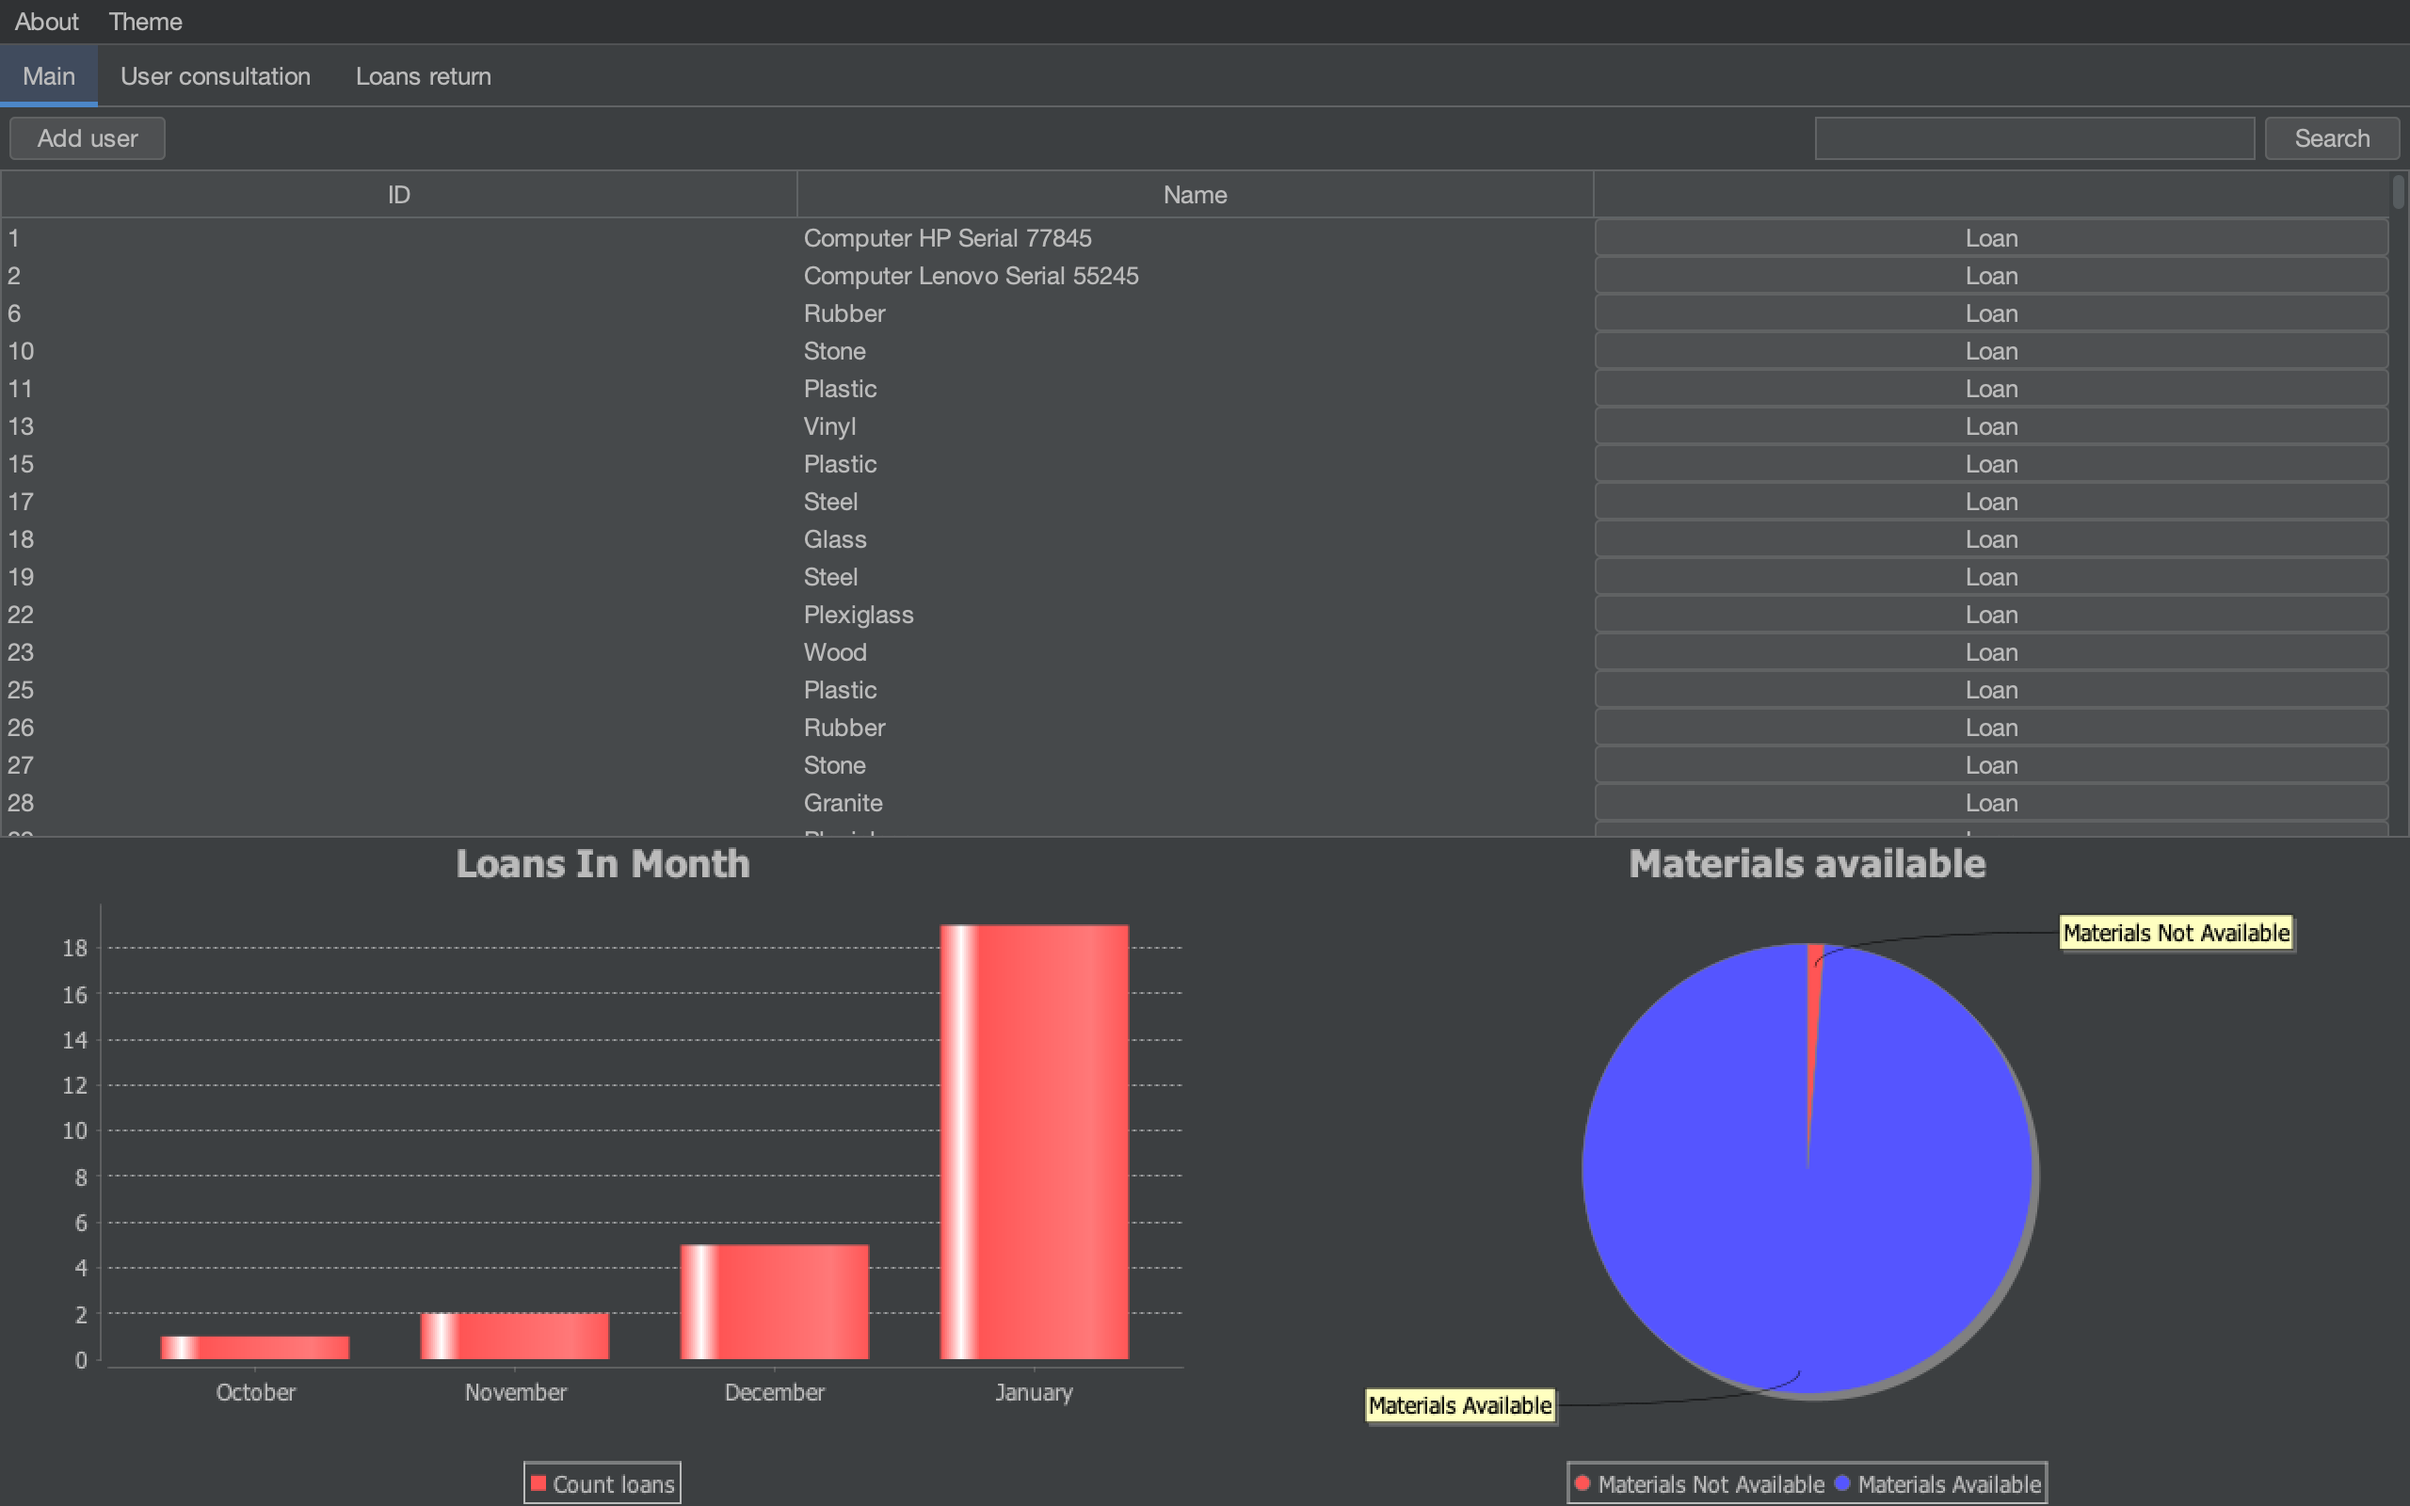
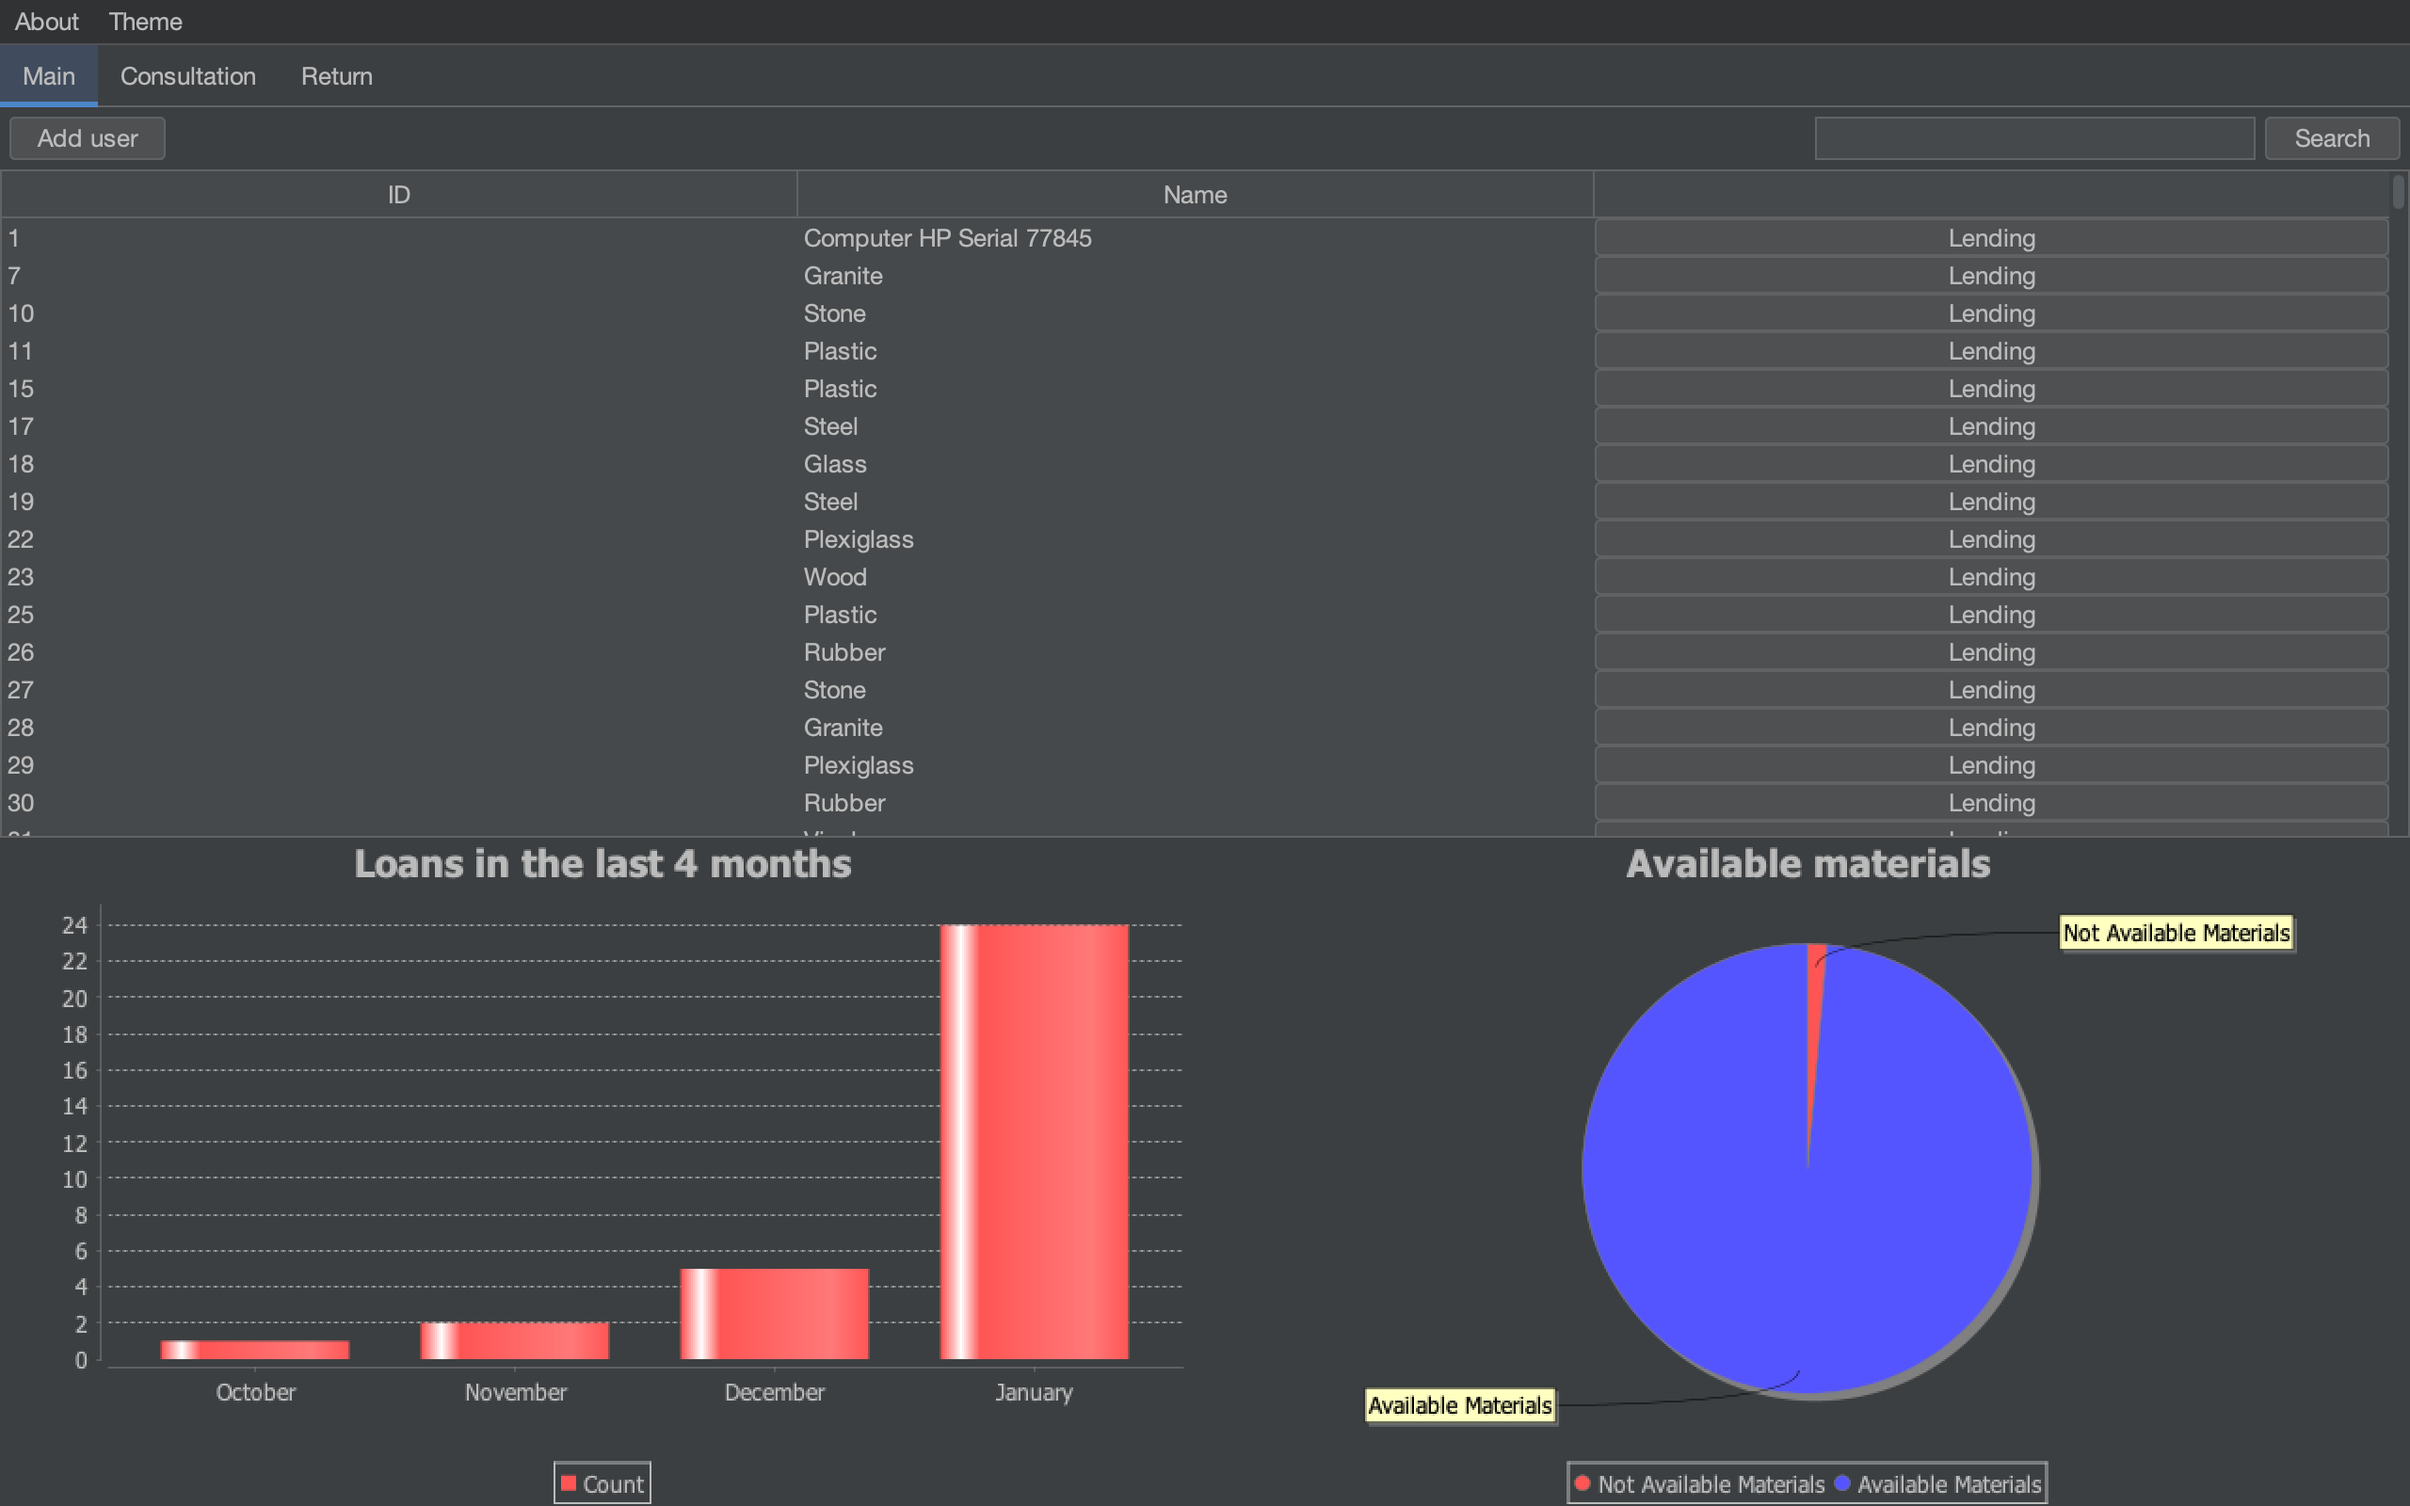
Add Wiki github

diff --git a/src/controllers/MainController.java b/src/controllers/MainController.java
@@ -54,9 +54,9 @@ public class MainController {
         try {
             ResultSet rs = AppSDK.LoansManager.LonsCount();
             while(rs.next()){
-                data.setValue(new Double(rs.getString(2)),"Count loans",rs.getString(1));
+                data.setValue(new Double(rs.getString(2)),"Count",rs.getString(1));
             }
-            var chart = ChartFactory.createBarChart("Loans In Month",
+            var chart = ChartFactory.createBarChart("Loans in the last 4 months",
                     " ", " " , data, PlotOrientation.VERTICAL,true,true,false);
             chart.setBackgroundPaint(UIManager.getColor ("Panel.background"));
             chart.getPlot().setBackgroundPaint( UIManager.getColor ("Panel.background"));
@@ -94,9 +94,9 @@ public class MainController {
         try {
             ResultSet rs = AppSDK.LoansManager.LonsAvailable();
             rs.next();
-            Pie.setValue("Materials Not Available", rs.getInt(2));
-            Pie.setValue("Materials Available", rs.getInt(1));
-            var chart = ChartFactory.createPieChart("Materials available", Pie,
+            Pie.setValue("Not Available Materials", rs.getInt(2));
+            Pie.setValue("Available Materials", rs.getInt(1));
+            var chart = ChartFactory.createPieChart("Available materials", Pie,
                     true, true , true);
             chart.setBackgroundPaint(UIManager.getColor ("Panel.background"));
             chart.getPlot().setBackgroundPaint( UIManager.getColor ("Panel.background"));

diff --git a/src/views/MainView.java b/src/views/MainView.java
@@ -21,7 +21,7 @@ public class MainView extends JPanel {
     public MainView(){
         controller = new MainController();
         table = new JTable();
-        tableBtn = new JButton("Loan");
+        tableBtn = new JButton("Lending");
         scroller = new javax.swing.JScrollPane(table);
         globalPanel = new JPanel();
         graphPanel = new JPanel();
@@ -42,7 +42,7 @@ public class MainView extends JPanel {
         table.setAutoCreateRowSorter(true);
         this.setLayout(new GridLayout(1,1));
         table.setModel(controller.getAccountsTableModel());
-        table.getColumn("").setCellRenderer(new ButtonRendererTable("Loan"));
+        table.getColumn("").setCellRenderer(new ButtonRendererTable("Lending"));
         table.getColumn("").setCellEditor(new ButtonEditorTable(new JCheckBox(),tableBtn));
         btnsPanel.add(btnAddUser);
         searchPanel.add(txtSearch);

diff --git a/src/views/Layout.java b/src/views/Layout.java
@@ -44,8 +44,8 @@ public class Layout extends JFrame {
 
         JTabbedPane tabs = new JTabbedPane();
         tabs.addTab( "Main", new MainView());
-        tabs.addTab( "User consultation", new ConsultationUsersView());
-        tabs.addTab( "Loans return", new BackLoanView());
+        tabs.addTab( "Consultation", new ConsultationUsersView());
+        tabs.addTab( "Return", new BackLoanView());
         this.add(tabs);
         this.setVisible(true);
     }

diff --git a/README.md b/README.md
@@ -1,42 +1,98 @@
-# <a href="" target="_blank"> LoansManager </a> Desktop APP Using Java 
-![onlinebookstore](./images/image1.png)
-<span style="color:blue">**This Desktop App is built for following purpose:-**</span>
-- For loan materials to users
-- Get statistics about avalable materials.
-- Get informations for 
-- Adding and managing users
-- User Friendly.
-- For Implemention of MVC & Observable pattern in Java.
-- This is a Mini-project developed using Java, Jdbc, JFreeChart, Flatlaf, Swing.
+<h1 align="center">Welcome to Loans Manager 👋</h1>
+<p align="center">
+  <a href="https://github.com/AbderrahmaneAhmam/Loans-manager/issues">
+    <img alt="Issues: AbderrahmaneAhmam" src="https://img.shields.io/github/issues/AbderrahmaneAhmam/Loans-manager" target="_blank" />
+  </a>
+<a href="https://github.com/AbderrahmaneAhmam/Loans-manager">
+    <img alt="Forks: AbderrahmaneAhmam" src="https://img.shields.io/github/forks/AbderrahmaneAhmam/Loans-manager" target="_blank" />
+  </a>
+<a href="https://github.com/AbderrahmaneAhmam/Loans-manager">
+    <img alt="Stars: AbderrahmaneAhmam" src="https://img.shields.io/github/stars/AbderrahmaneAhmam/Loans-manager" target="_blank" />
+  </a>
+</p>
 
-### Technologies used:-
-1. Design:
-- Swing.
-- Flatlaf.
+> Loans Manager it's a mini project to manage materials 
+- Add users and new loans
+- Get informations about status of materials
+- Display available, delayed and not available materials
+- Get the log of loans for a user
+- Return material
+- Get informations about delayed materials and daly
+- Track materials
 
-2. Code
+[[_TOC_]]
+
+## ✨ Demo
+
+`Loans Manager` is able to show you how to use MVC and Observable pattern in real project with t implementation of JFreeChart and Flatlaf:
+
+<p align="center">
+  <img width="700" align="center" src="./images/demo.gif" alt="demo"/>
+</p>
+
+Generated `README.md`:
+
+<table>
+<tr>
+<td>
+<img width="700" src="./images/image1.png" alt="cli output"/>
+</td>
+<td>
+<img width="700" src="./images/image2.png" alt="cli output"/>
+</td>
+</tr>
+</table>
+
+## 🚀 Usage
+
+Make sure you have [JDK](https://www.oracle.com/java/technologies/downloads/) installed and [MySQL](https://www.apachefriends.org/fr/index.html)
+
+- Execute `Loans-Manager.sql` scripte in MySQL
+- Add some materials using MySQL
+- Run Java Project
+
+## Design patterns
+- MVC
+- Observable pattern
+
+## Technologies
 - JAVA
-- JDBC
+- Swing
 
-3. Database used.
-- MySql
+## Dependencies
+- [JFreeChart](https://www.jfree.org/jfreechart/)
+- [FlatLaf](https://github.com/JFormDesigner/FlatLaf)
 
-### ==== Software And Tools Required ====
-- MySQL
-- Java [JDK 8+]
+## Code Contributors
 
-Note:- This is a Sample Project, So we have used only Swing and JDBC.
+This project exists thanks to all the people who contribute.
+<a href="https://github.com/AbderrahmaneAhmam/Website-Static-for-Cloud-Company/graphs/contributors">
+  <img src="https://contrib.rocks/image?repo=AbderrahmaneAhmam/Website-Static-for-Cloud-Company" />
+</a>
 
-### =============== Dummy Database Initialization =====================
 
-STEP 1: Open MySQL Command Prompt or MySQL Workbench
+## 🤝 Contributing
 
-STEP 2: Login to the administrator user as : ```mysql -u <username> -p``` (Enter Password if asked)
+Contributions, issues and feature requests are welcome.<br />
+Feel free to check [issues page](https://github.com/AbderrahmaneAhmam/loans-manager/issues) if you want to contribute.<br />
+[Check the contributing guide](./CONTRIBUTING.md).<br />
 
-STEP 3 :Execute script SQL named loansmanager.sql:
+## Author
 
-#### "Suggestions and project Improvements are Invited!"
+👤 **Abderrahmnae Ahmam**
 
-<bold>Thanks a lot</bold><br/>
-                                                                                                        Project Leader<br/>
-                                                                                                         <b>Ahmam Abderrahmane</b>
+- Twitter: [@AbderrahmaneAhmam](https://twitter.com/AbderrahmaneAhmam)
+- Github: [@AbderrahmaneAhmam](https://github.com/AbderrahmaneAhmam)
+
+## Show your support
+
+Please ⭐ this repository if this project helped you!
+
+## 📝 License
+
+Copyright © 2022 [Abderrahmane Ahmam](https://github.com/AbderrahmaneAhmam).<br />
+This project is [MIT](https://github.com/kefranabg/readme-md-generator/blob/master/LICENSE) licensed.
+
+---
+
+_This project created with ❤

diff --git a/CONTRIBUTING.md b/CONTRIBUTING.md
@@ -1,0 +1,39 @@
+# Contributing to Loans Manager
+
+👍🎉 First off, thanks for taking the time to contribute! 🎉👍
+
+When contributing to this repository, please first discuss the change you wish to make via issue, email, or any other method with the owners of this repository before making a change.
+Please note we have a code of conduct (MVC,...), please follow it in all your interactions with the project.
+
+## Setting Up the project locally
+
+To install the project you need to have `JAVA JDK` and `MySQL`
+
+1.  [Fork](https://help.github.com/articles/fork-a-repo/) the project, clone
+    your fork:
+
+    ```sh
+    # Clone your fork
+    git clone https://github.com/<your-username>/loans-manager.git
+
+    # Navigate to the newly cloned directory
+    cd Loans-Manager
+    ```
+> Tip: Keep your `master` branch pointing at the original repository and make
+> pull requests from branches on your fork. To do this, run:
+>
+> ```sh
+> git remote add upstream https://github.com/AbderrahmaneAhmam/loans-manager.git
+> git fetch upstream
+> git branch --set-upstream-to=upstream/master master
+> ```
+>
+> This will add the original repository as a "remote" called "upstream," then
+> fetch the git information from that remote, then set your local `master`
+> branch to use the upstream master branch whenever you run `git pull`. Then you
+> can make all of your pull request branches based on this `master` branch.
+> Whenever you want to update your version of `master`, do a regular `git pull`.
+
+## Submitting a Pull Request
+
+Please go through existing issues and pull requests to check if somebody else is already working on it.
